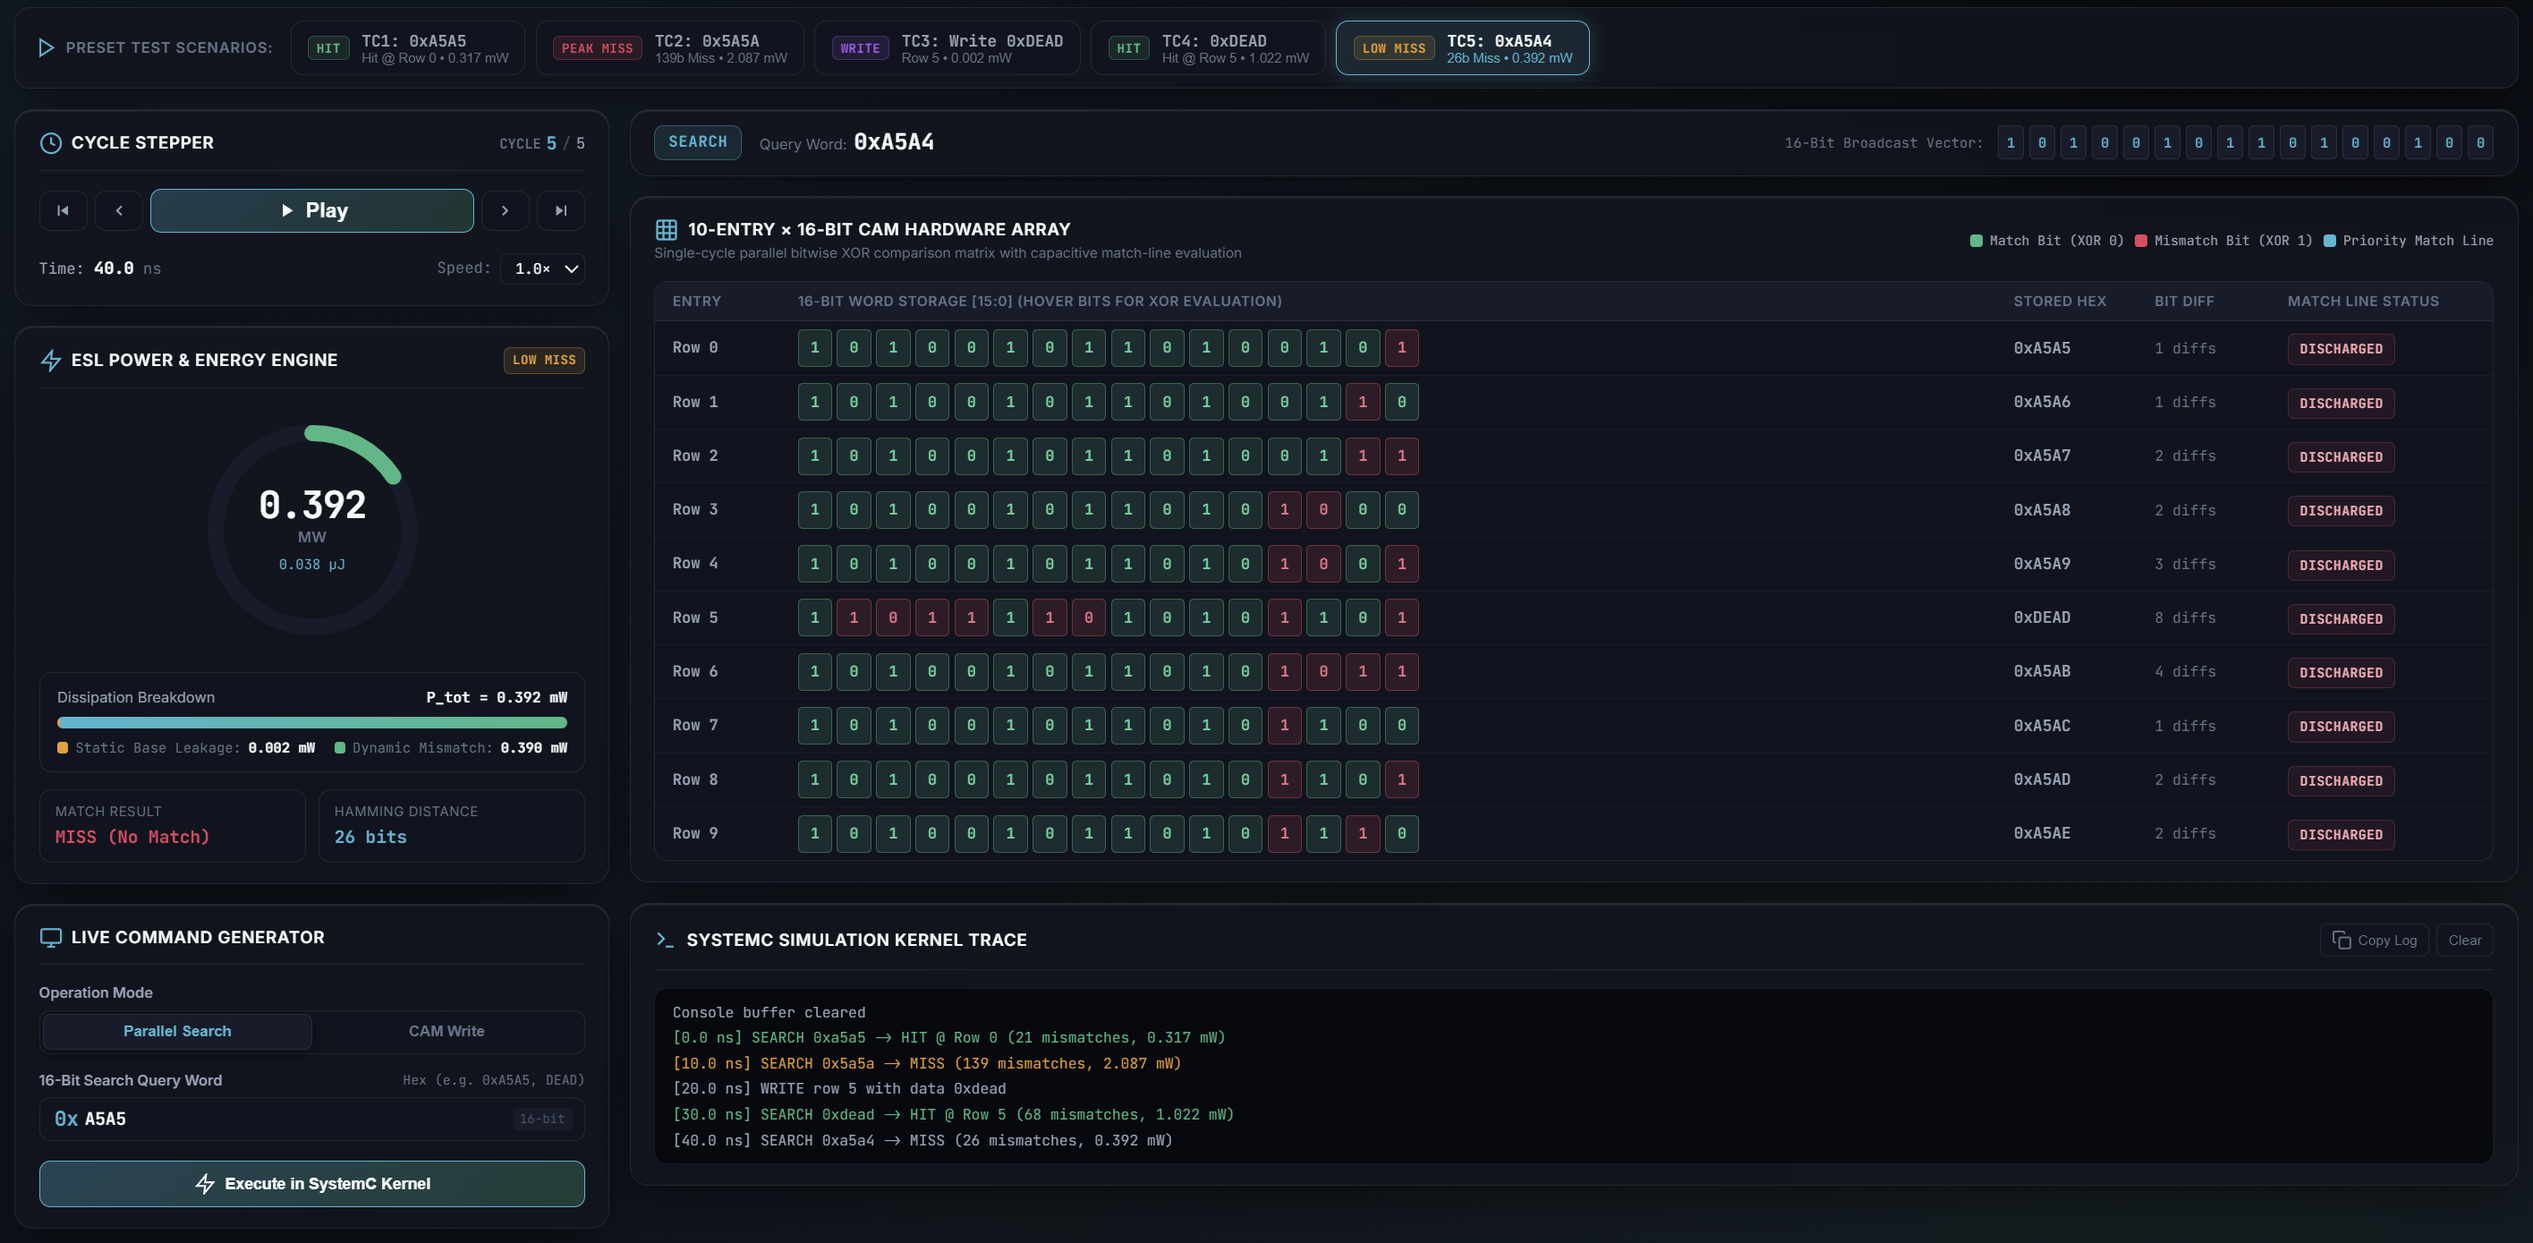
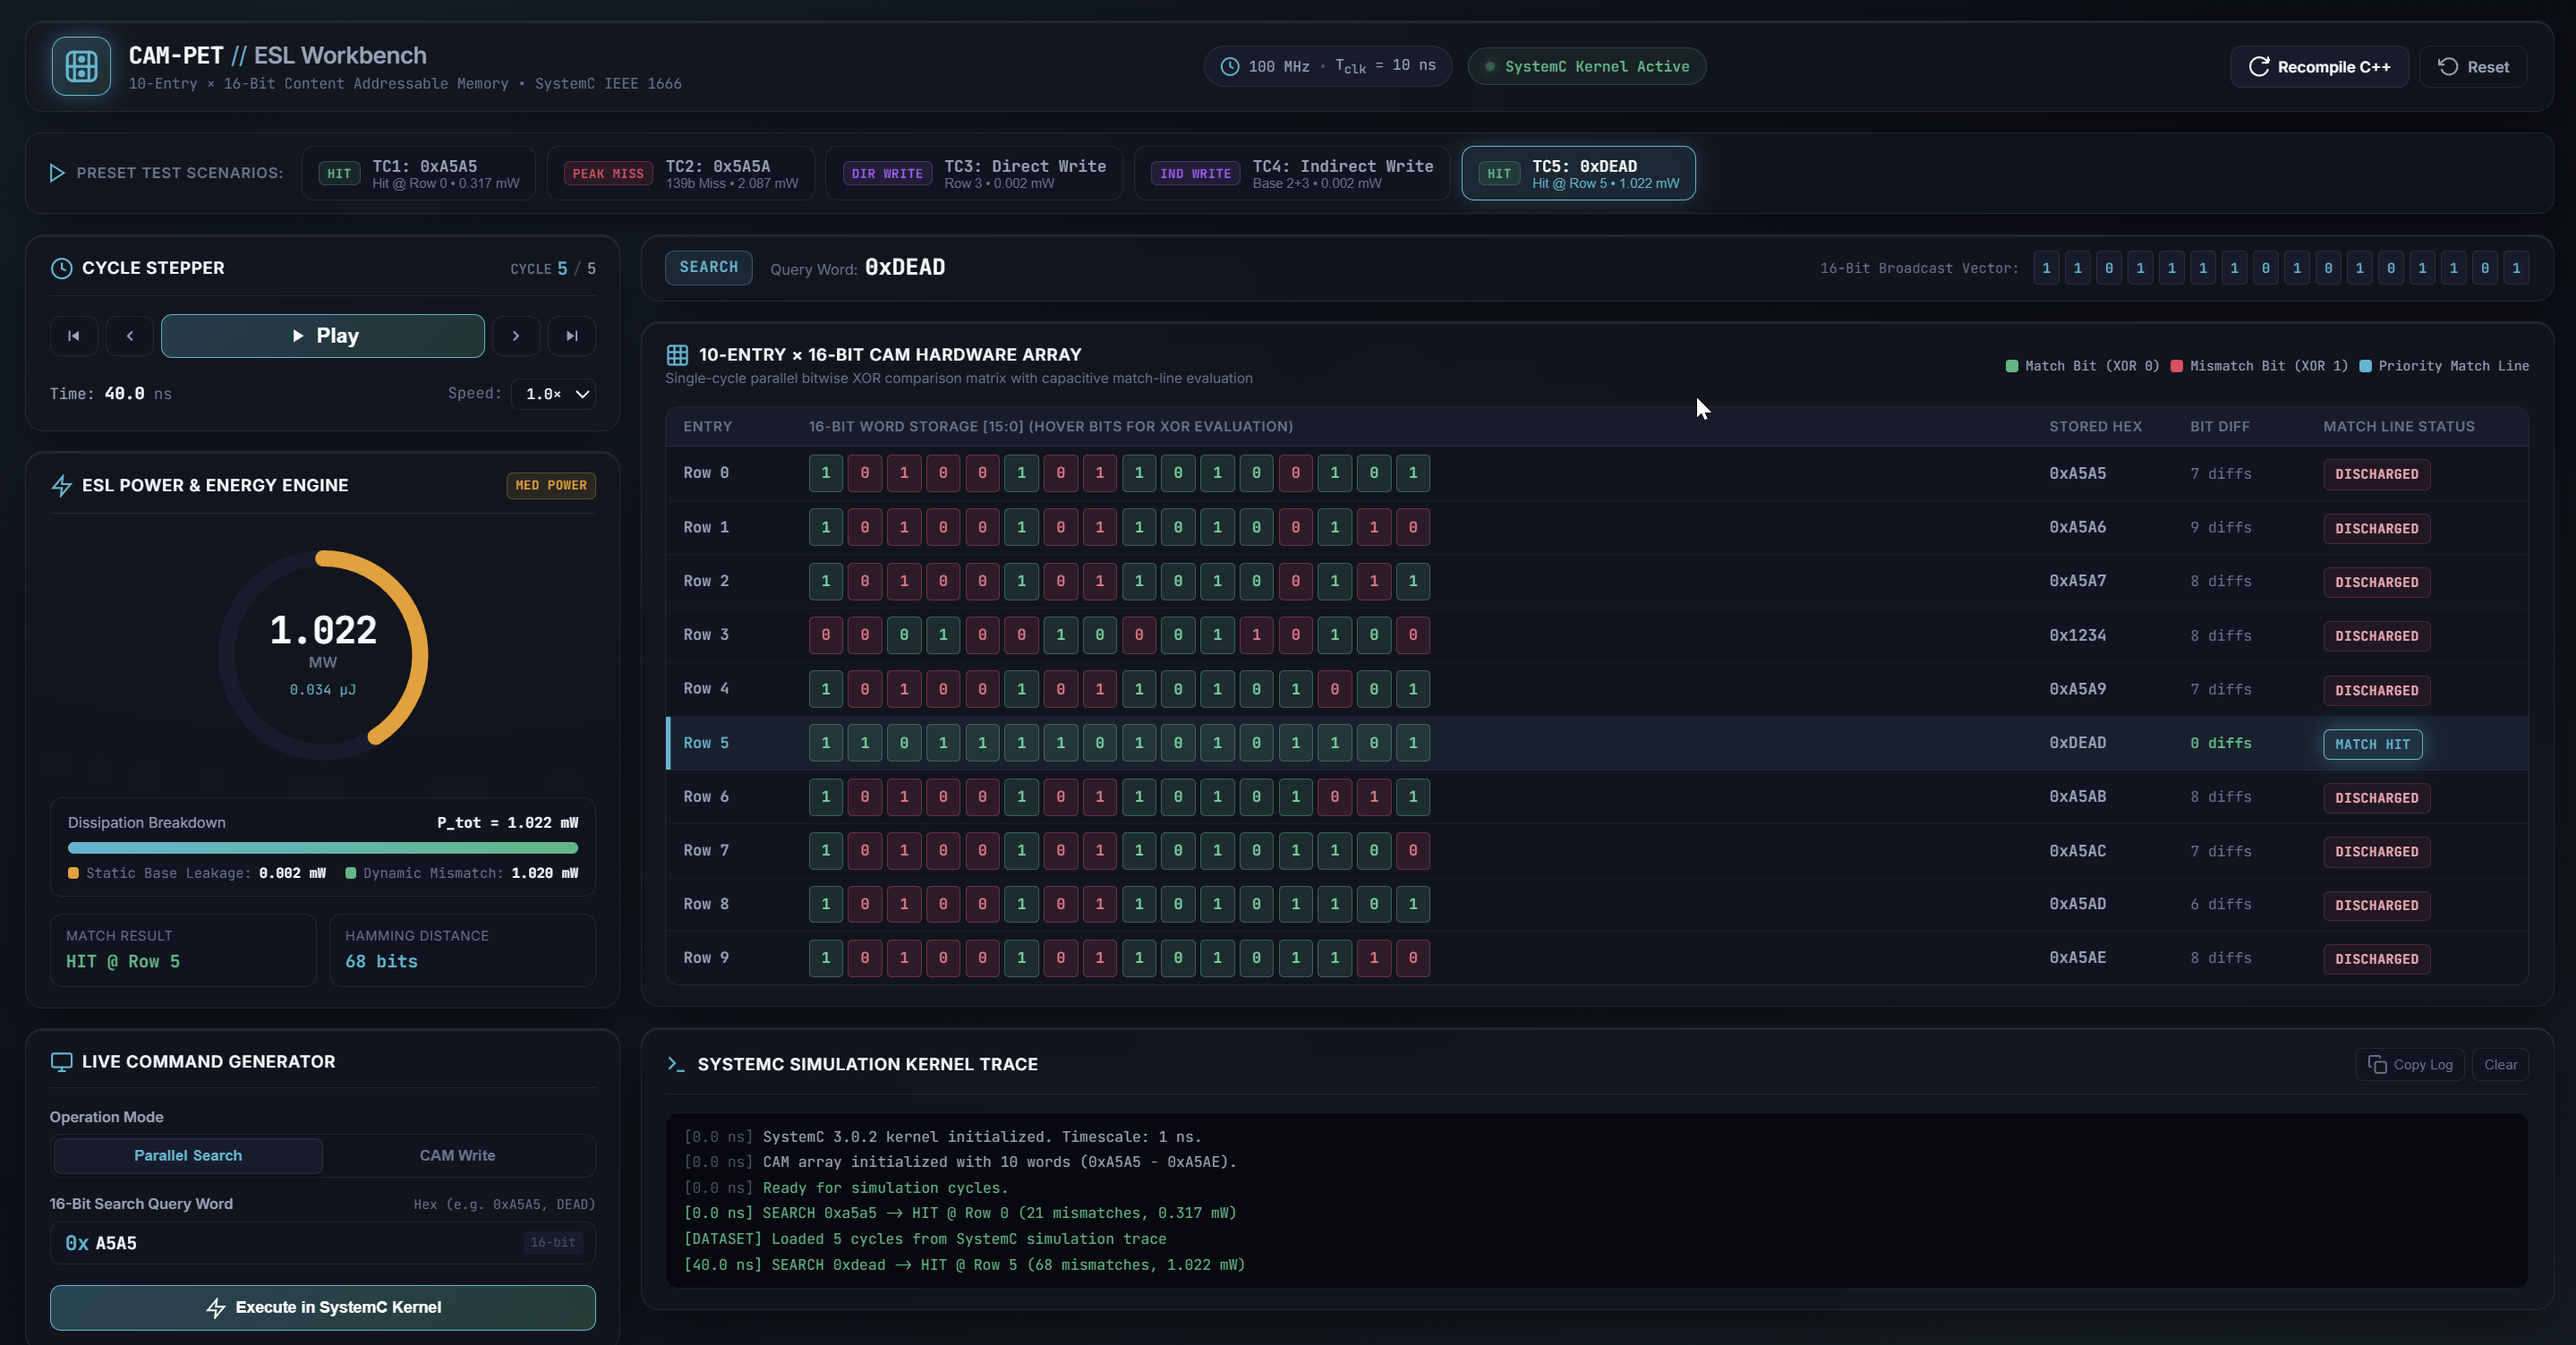
Webiste Deployment

diff --git a/Frontend/app.js b/Frontend/app.js
@@ -230,7 +230,7 @@ function setOperationMode(mode) {
 async function loadSimulationData() {
     dom.statusText.textContent = 'Loading Dataset...';
     try {
-        const res = await fetch('/simulation_data.json?t=' + Date.now());
+        const res = await fetch('simulation_data.json?t=' + Date.now());
         if (!res.ok) throw new Error(`HTTP ${res.status}`);
         const data = await res.json();
         
